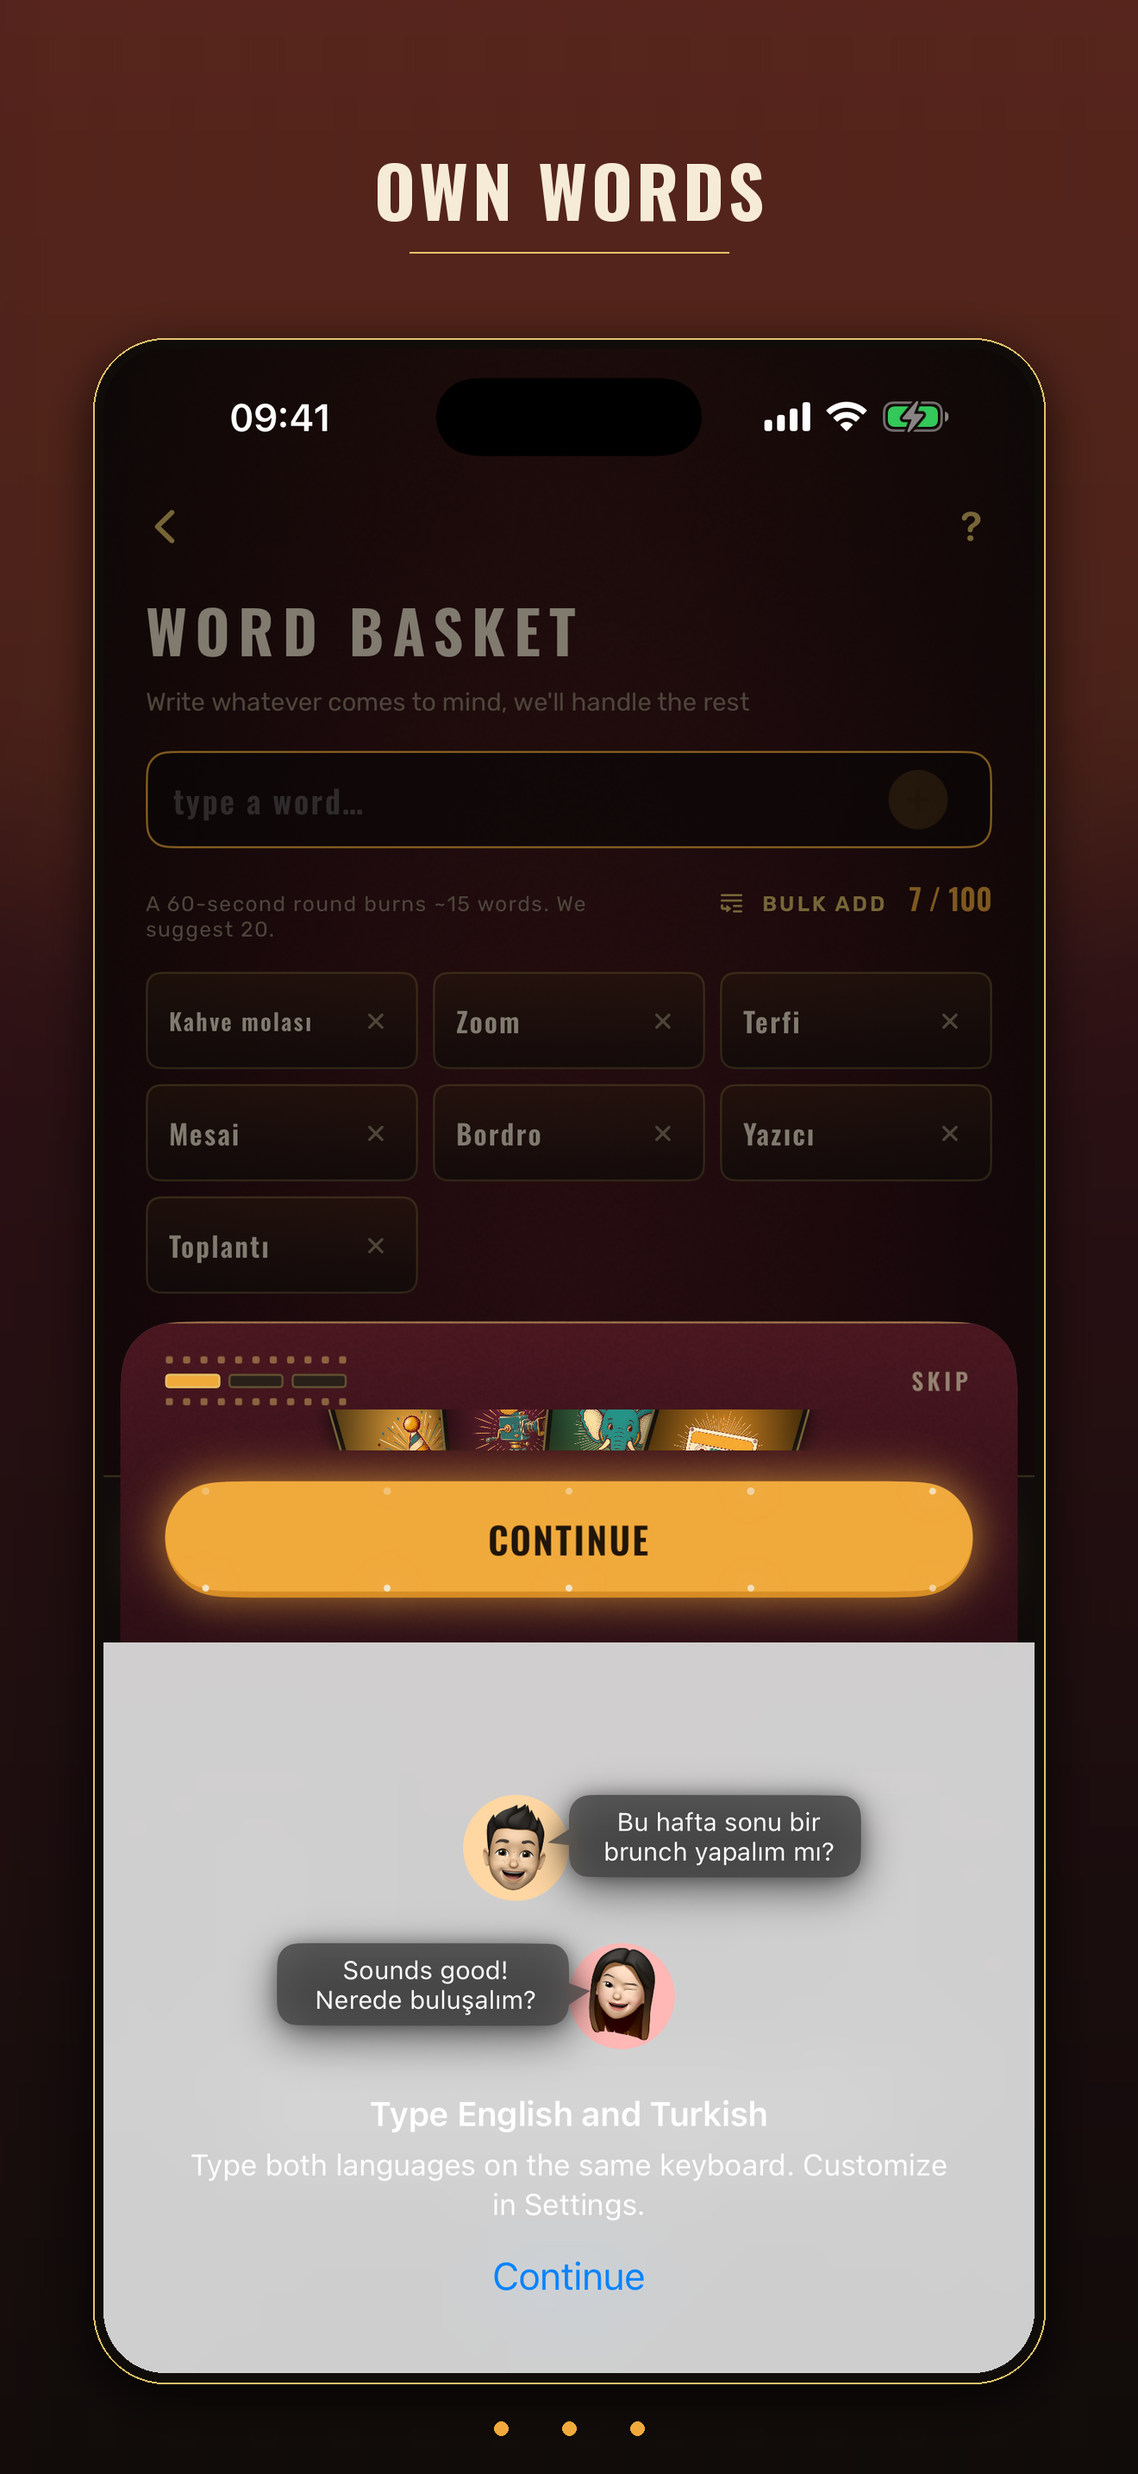
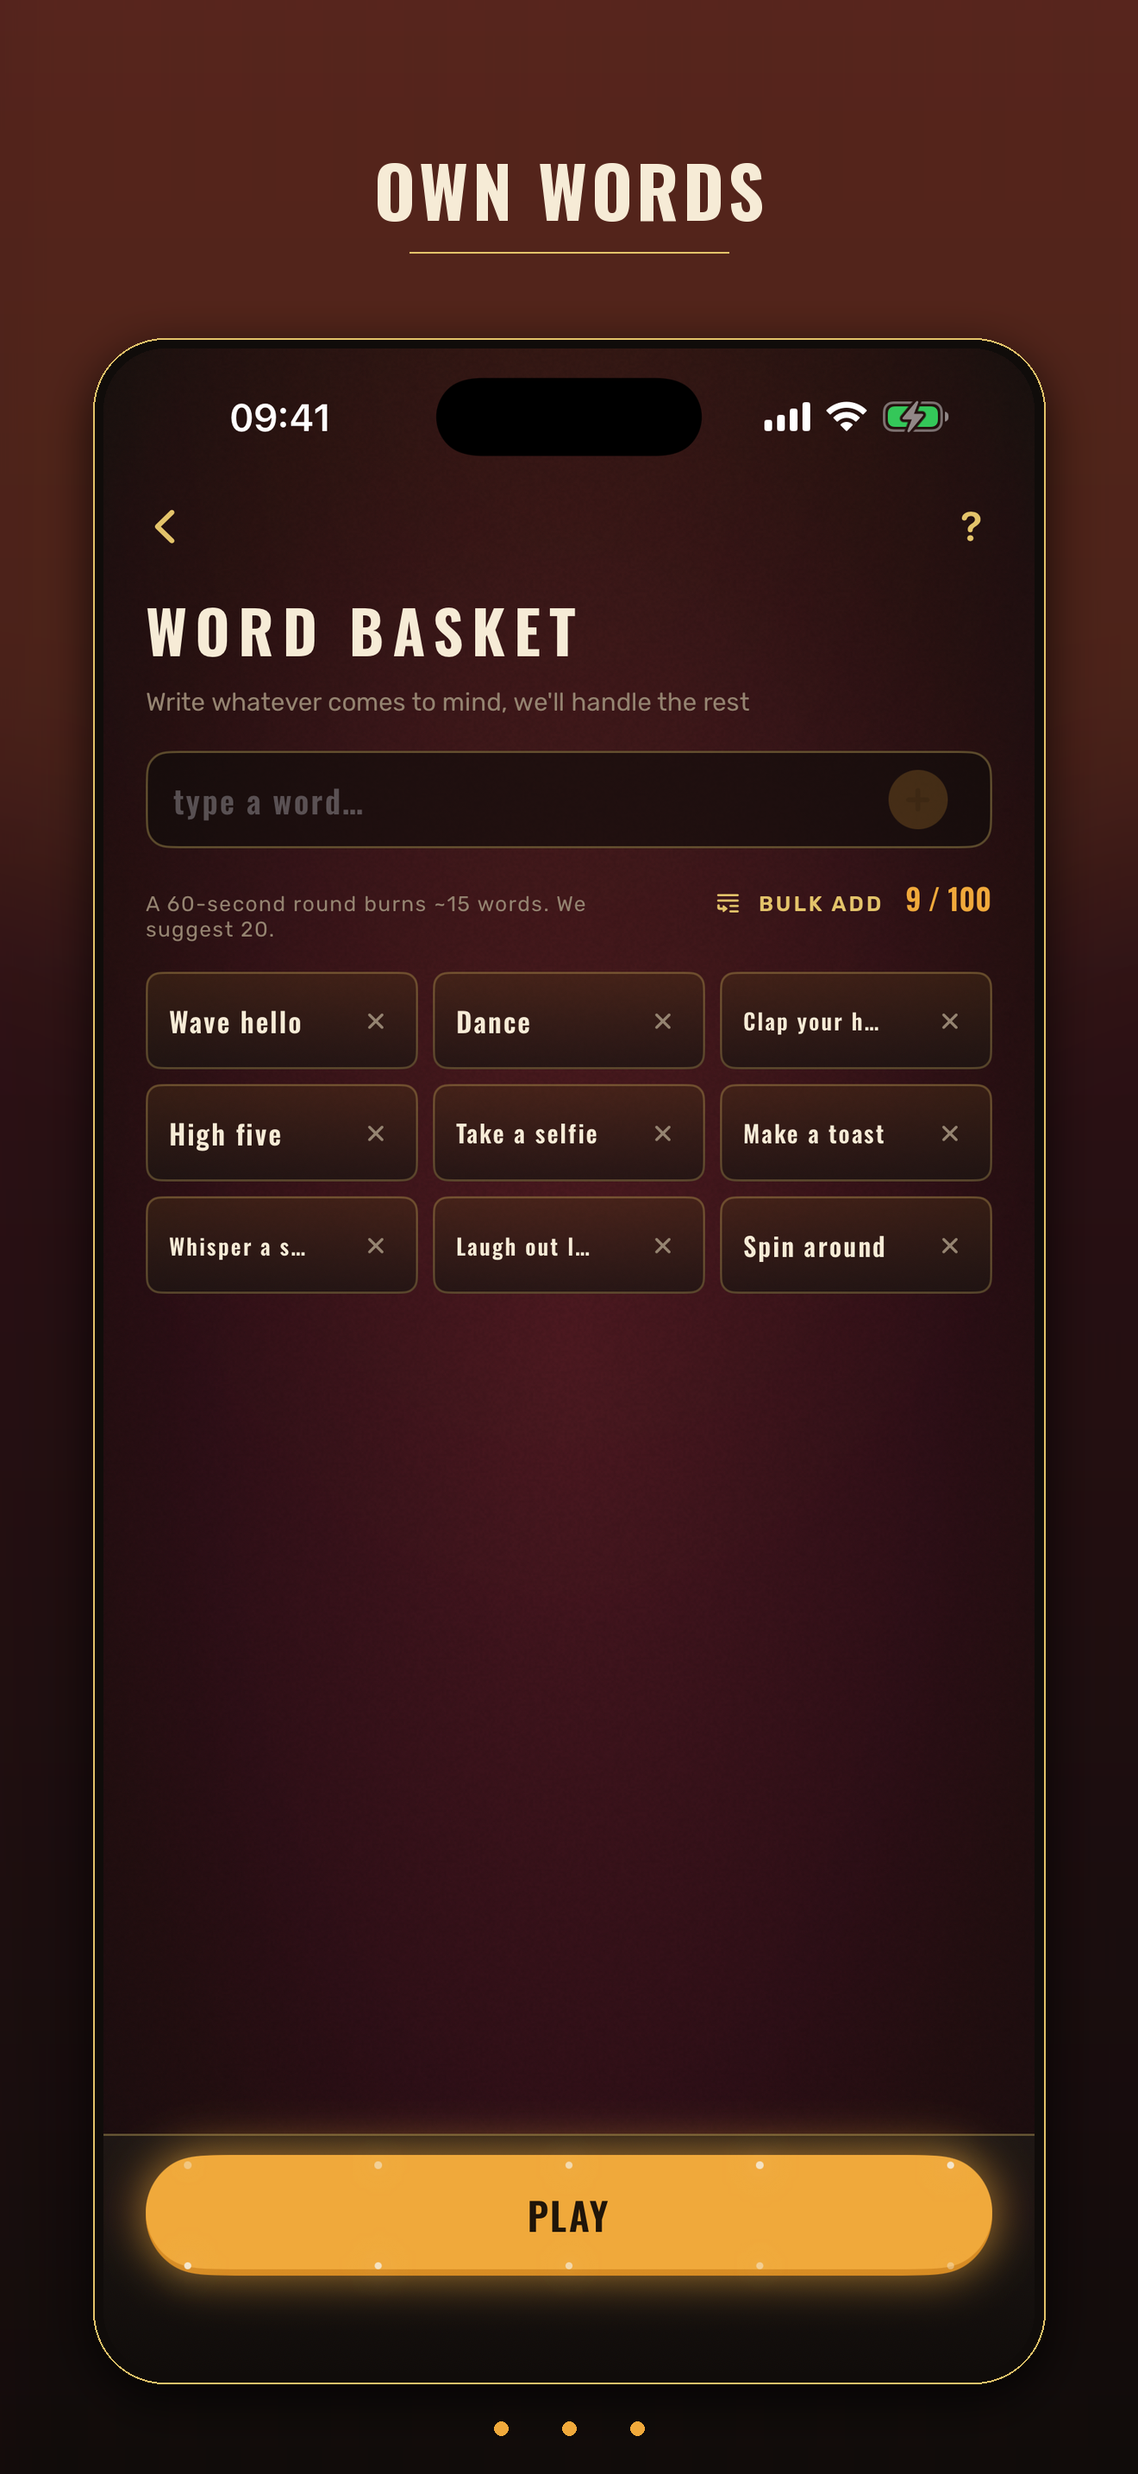
ddwd

diff --git a/charades/Charades/Features/Root/RootView.swift b/charades/Charades/Features/Root/RootView.swift
@@ -411,6 +411,18 @@ struct RootView: View {
         "Toplantı", "Ayşe'nin köpeği", "Müdürün arabası", "Mola",
     ]
 
+    /// Sepet ve custom deste tohumu: sabit Türkçe liste mağaza karesinde ve
+    /// yabancı dil denemelerinde yamalı duruyor. Ücretsiz destenin kendi
+    /// kartları o dilde hazır — tohum onları ödünç alıyor.
+    private static func debugSeedWords(_ count: Int) -> [String] {
+        let language = LocalizationManager.shared.localeCode
+        let words = CardBank.shared
+            .cards(in: DeckCatalog.freeDeckID)
+            .prefix(count)
+            .map { $0.text(for: language) }
+        return words.isEmpty ? Array(debugWords.prefix(count)) : Array(words)
+    }
+
     /// Simülatör doğrulaması. Tilt sensörü ve ekran döndürme simülatörde
     /// olmadığı için oyun fazlarına başka türlü girilemiyor.
     ///
@@ -442,6 +454,8 @@ struct RootView: View {
     ///   -SoftPaywall           tur sonu yumuşak önerisini yeniden tetikler
     ///   -Lapse                 abonelik düşmüş gibi davranır (bilgi kartı)
     ///   -FirstRun [adım]       onboarding'i baştan açar (1–3, varsayılan 1)
+    ///   -NoFirstRun            onboarding/paywall/istem zincirini kapalı açar
+    ///   -NoKeyboard            kelime girişini odaksız açar (klavye kapalı)
     ///   -TouchOnboarding       adım 3'ün dokunmatik hâli
     ///   -TiltOnboarding        adım 3'ün eğme hâli (simülatörde sensör yok)
     ///   -HomePrompts           ana ekrandaki 8 sn'lik istem zincirini tetikler
@@ -514,7 +528,7 @@ struct RootView: View {
         // makarayı çoğaltıyor (§ `04` §4.3 gruplama ve kota denetimi için).
         if arguments.contains("-SeedArchive") {
             let count = value(after: "-SeedArchive").flatMap(Int.init) ?? 5
-            ReplayStore.debugSeed(copies: count)
+            ReplayStore.debugSeed(copies: count, words: Self.debugSeedWords(3))
         }
         if arguments.contains("-NotificationsOff") {
             AppSettingsStore.shared.notificationsEnabled = false
@@ -524,6 +538,10 @@ struct RootView: View {
         if arguments.contains("-HomePrompts") {
             AppSettingsStore.shared.debugReplayHomePrompts()
             PromptCoordinator.shared.debugReset()
+        }
+        // Mağaza karelerinde ilk açılış sheet'i her ekranın üstünü kapatıyor.
+        if arguments.contains("-NoFirstRun") {
+            AppSettingsStore.shared.debugSkipFirstRun()
         }
         if arguments.contains("-FirstRun") {
             AppSettingsStore.shared.debugResetFirstRun()
@@ -553,9 +571,16 @@ struct RootView: View {
         if arguments.contains("-TeamRoster") {
             SubscriptionStore.shared.debugPremiumOverride = true
             setup.mode = .teams
+            let l10n = LocalizationManager.shared
             setup.teams = [
-                Team(name: "Perdeciler", players: ["Metehan", "Ayşe"]),
-                Team(name: "Makaracılar", players: ["Elif", "Burak"])
+                Team(
+                    name: l10n.t("teams.defaultName", ["index": "1"]),
+                    players: Array(ReplayStore.debugPlayerNames.prefix(2))
+                ),
+                Team(
+                    name: l10n.t("teams.defaultName", ["index": "2"]),
+                    players: Array(ReplayStore.debugPlayerNames.dropFirst(2).prefix(2))
+                )
             ]
             setup.roundsPerTeam = 1
         }
@@ -576,13 +601,13 @@ struct RootView: View {
                 CustomDeck(
                     name: "Ofis Muhabbeti",
                     languageCode: LocalizationManager.shared.localeCode,
-                    words: Array(Self.debugWords.prefix(count))
+                    words: Self.debugSeedWords(count)
                 )
             )
         }
         if arguments.contains("-Basket") {
             let count = value(after: "-Basket").flatMap(Int.init) ?? 7
-            setup.basketWords = Array(Self.debugWords.prefix(count))
+            setup.basketWords = Self.debugSeedWords(count)
         }
 
         if arguments.contains("-Settings") {

diff --git a/charades/Charades/Features/Replay/ReplayStore.swift b/charades/Charades/Features/Replay/ReplayStore.swift
@@ -215,22 +215,26 @@ enum ReplayStore {
     }
 
     #if DEBUG
+    /// Tohum oyuncu adları. Kısa ve çoğu dilde okunur; sabit Türkçe adlar
+    /// yabancı dil denemelerinde ve mağaza karesinde yamalı duruyordu.
+    static let debugPlayerNames = ["Alex", "Sam", "Mia", "Leo", "Ana", "Noah"]
+
     /// Simülatörde arşivi dolu görebilmek için. Kaynak makara yoksa sentetik
     /// bir video üretiliyor — aksi hâlde arşiv boşken tohumlama sessizce
     /// hiçbir şey yapmıyordu.
-    static func debugSeed(copies: Int) {
+    /// `words` oynatıcının altyazı şeridini besliyor; çağıran onları seçili
+    /// dilin destesinden veriyor ki tohum her dilde okunur olsun.
+    static func debugSeed(copies: Int, words: [String] = []) {
         prepareDirectory()
         let source = allReels().first
         let sourceURL = source?.videoURL ?? makeSeedVideo()
         guard let sourceURL, FileManager.default.fileExists(atPath: sourceURL.path) else { return }
 
-        let names = ["Ayşe", "Mehmet", "Zeynep", "Can", "Elif", "Deniz"]
+        let names = debugPlayerNames
         let decks = ["party", "movieClassics", "cities"]
-        let marks = source?.marks ?? [
-            .init(time: 3, isCorrect: true, word: "Zürafa", key: "giraffe"),
-            .init(time: 7, isCorrect: false, word: "Pangolin", key: "pangolin"),
-            .init(time: 11, isCorrect: true, word: "Timsah", key: "crocodile"),
-        ]
+        let marks = source?.marks ?? zip([3.0, 7.0, 11.0], words.prefix(3)).enumerated().map {
+            ReplayReel.Mark(time: $1.0, isCorrect: $0 != 1, word: $1.1, key: "seed-\($0)")
+        }
 
         for index in 0..<copies {
             let id = UUID().uuidString

diff --git a/charades/Charades/Features/Root/HeaderBar.swift b/charades/Charades/Features/Root/HeaderBar.swift
@@ -22,10 +22,16 @@ struct HeaderBar: View {
     private var logoSize: CGFloat { 44 - 20 * collapseProgress }
     private var taglineOpacity: Double { max(0, 1 - collapseProgress * 2.2) }
 
+    /// Logo ortada duruyor, butonlar onun üstünde: makara ikonu belirince sağ
+    /// küme genişliyor ve uzun dillerde plaka butonların altına giriyor. Geniş
+    /// tarafın payı iki yana birden veriliyor ki logo ortada kalsın.
+    private var sideInset: CGFloat { archiveCount > 0 ? 98 : 44 }
+
     var body: some View {
         VStack(spacing: 6) {
             ZStack {
                 logoPlaque
+                    .padding(.horizontal, sideInset)
 
                 HStack(spacing: 10) {
                     HeaderCircleIconButton(
@@ -73,6 +79,8 @@ struct HeaderBar: View {
             .appTracking(2 + 3 * (1 - collapseProgress))
             .textCase(.uppercase)
             .foregroundStyle(AppColors.textCream)
+            .lineLimit(1)
+            .minimumScaleFactor(0.6)
             .padding(.horizontal, 22)
             .padding(.vertical, 5)
             .overlay {

diff --git a/charades/Charades/Services/AppSettingsStore.swift b/charades/Charades/Services/AppSettingsStore.swift
@@ -333,6 +333,20 @@ final class AppSettingsStore {
         debugResetOneTimePrompts()
     }
 
+    /// Mağaza karesi ilk açılış akışını göstermemeli: onboarding, paywall ve
+    /// istem zinciri kapalı başlasın.
+    func debugSkipFirstRun() {
+        onboardingDone = true
+        onboardingStep = 0
+        paywallSeen = true
+        notificationPrompted = true
+        rateUsPrompted = true
+        replayPrivacyShown = true
+        archiveNoticeDismissed = true
+        softPaywallSeen = true
+        lapseNoticeShown = true
+    }
+
     /// İlk açılış deneyimini yeniden oynatmak için: onboarding + onun ardından
     /// gelen paywall + bildirim istemi.
     func debugResetFirstRun() {

diff --git a/charades/Charades/Features/CustomDeck/WordEntryField.swift b/charades/Charades/Features/CustomDeck/WordEntryField.swift
@@ -40,6 +40,10 @@ struct WordListSection: View {
             .environment(l10n)
         }
         .onAppear {
+            #if DEBUG
+            // Mağaza karesinde klavye ekranın yarısını yiyor.
+            if ProcessInfo.processInfo.arguments.contains("-NoKeyboard") { return }
+            #endif
             if autoFocusesEntry { isEntryFocused = true }
         }
     }

diff --git a/charades/Scripts/build_store_screenshots.py b/charades/Scripts/build_store_screenshots.py
@@ -16,6 +16,10 @@ Kullanım:
   python3 Scripts/build_store_screenshots.py --size 6.9 --scene home
   python3 Scripts/build_store_screenshots.py --compose-only  # yeniden çekmeden diz
 
+Bağımlılık: Pillow. Arapça başlık için `arabic-reshaper` + `python-bidi`
+(sistem SF Arabic ile sunum biçimleri çiziliyor; Rubik OpenType birleştirmesi
+PIL'de yok).
+
 Çıktı: `Store/screenshots/<dil>/<boyut>/NN-<sahne>.png`
 """
 
@@ -30,6 +34,13 @@ import sys
 import time
 
 from PIL import Image, ImageDraw, ImageFilter, ImageFont
+
+try:
+    import arabic_reshaper
+    from bidi.algorithm import get_display
+except ImportError:  # pragma: no cover
+    arabic_reshaper = None
+    get_display = None
 
 ROOT = pathlib.Path(__file__).resolve().parent.parent
 FONTS = ROOT / "Charades" / "Resources" / "Fonts"
@@ -76,10 +87,15 @@ SCENES = [
     {
         "id": "game",
         "headline": ["onboarding.forehead.title"],
-        "arguments": [
-            "-Premium", "-ShortRound", "-StartGame", "filmClassics", "-SkipRotate",
-        ],
-        "settle": 9.0,
+        "arguments": ["-Premium", "-StartGame", "movieClassics", "-SkipRotate"],
+        # Klaket + geri sayım 5 sn sürüyor; kare ilk kelimede alınmalı.
+        "settle": 8.0,
+        # Simülatör cihazı portre kalıyor, uygulama içeriği kendi çeviriyor:
+        # ham kare yan yatmış geliyor, afişte doğrultuluyor.
+        "rotate": 90,
+        # Yatay kare afişin yarısını boş bırakıyor; kuralın kendi cümlesi
+        # (onboarding adım 2) o boşluğu dolduruyor.
+        "sub": "onboarding.forehead.body",
     },
     {
         "id": "modes",
@@ -102,7 +118,7 @@ SCENES = [
     {
         "id": "words",
         "headline": ["mode.ownWords.title"],
-        "arguments": ["-Premium", "-Basket", "7", "-WordBasket"],
+        "arguments": ["-Premium", "-NoKeyboard", "-Basket", "9", "-WordBasket"],
         "settle": 4.0,
     },
 ]
@@ -178,7 +194,8 @@ def boot(udid: str) -> None:
 
 
 def capture(udid: str, scene: dict, language: str, target: pathlib.Path) -> None:
-    arguments = ["-SkipSplash", "-Lang", language, *scene["arguments"]]
+    # `-NoFirstRun` olmadan onboarding sheet'i her karenin üstünü kapatıyor.
+    arguments = ["-SkipSplash", "-NoFirstRun", "-Lang", language, *scene["arguments"]]
     run("xcrun", "simctl", "launch", "--terminate-running-process", udid, BUNDLE_ID, *arguments)
     time.sleep(scene["settle"])
     target.parent.mkdir(parents=True, exist_ok=True)
@@ -233,6 +250,10 @@ def tracked_text(
     tracking: float,
 ) -> None:
     """PIL'de harf aralığı yok; §2'nin geniş aralığı harf harf çiziliyor."""
+    if tracking == 0:
+        # Arapça bitişik; harf harf çizmek bağlantıyı bozar.
+        draw.text(position, text, font=font, fill=fill)
+        return
     x, y = position
     for character in text:
         draw.text((x, y), character, font=font, fill=fill)
@@ -272,17 +293,47 @@ def rounded_mask(size: tuple[int, int], radius: int) -> Image.Image:
     return mask
 
 
-def compose(shot: Image.Image, text: str, canvas: tuple[int, int], rtl: bool) -> Image.Image:
+def title_font(size: int, rtl: bool) -> ImageFont.FreeTypeFont:
+    # § `01` §2: Oswald'da Arap glifi yok. Rubik'te Arap var ama OpenType
+    # birleştirmesiyle; PIL raqm olmadan FE70 sunum biçimlerini çizemiyor.
+    # Mağaza başlığı için sistemin sunum biçimli SF Arabic'i kullanılıyor.
+    if rtl:
+        return ImageFont.truetype("/System/Library/Fonts/SFArabic.ttf", size)
+    return ImageFont.truetype(str(FONTS / "Oswald-Bold.ttf"), size)
+
+
+def body_font(size: int, rtl: bool) -> ImageFont.FreeTypeFont:
+    if rtl:
+        return ImageFont.truetype("/System/Library/Fonts/SFArabic.ttf", size)
+    return ImageFont.truetype(str(FONTS / "FiraSans-Regular.ttf"), size)
+
+
+def shape(text: str, rtl: bool) -> str:
+    if not rtl:
+        # Türkçe `i` → `İ`; Python'un `upper()`ı onu `I` yapıyor.
+        return text.replace("i", "İ").replace("ı", "I").upper()
+    if arabic_reshaper is None or get_display is None:
+        return text
+    return get_display(arabic_reshaper.reshape(text))
+
+
+def compose(
+    shot: Image.Image,
+    text: str,
+    canvas: tuple[int, int],
+    rtl: bool,
+    subtitle: str | None = None,
+) -> Image.Image:
     width, height = canvas
     image = background(canvas)
     draw = ImageDraw.Draw(image)
 
     title_size = round(width * 0.062)
-    font = ImageFont.truetype(str(FONTS / "Oswald-Bold.ttf"), title_size)
+    font = title_font(title_size, rtl)
     # § `01` §2: ALL CAPS + geniş aralık. Arapça bitişik yazıldığı için aralık
     # yalnızca ayrık alfabelerde (uygulamadaki `appTracking` kuralının aynısı).
     tracking = 0 if rtl else title_size * 0.055
-    caption = text if rtl else text.upper()
+    caption = shape(text, rtl)
 
     top = round(height * 0.055)
     lines = wrap(draw, caption, font, tracking, width * 0.84)
@@ -299,15 +350,25 @@ def compose(shot: Image.Image, text: str, canvas: tuple[int, int], rtl: bool) ->
         fill=ACCENT_GOLD, width=max(2, width // 620),
     )
 
-    # Cihaz çerçevesi: kalan alana sığan en büyük ölçek.
-    frame_top = rule_y + round(height * 0.035)
+    # Cihaz çerçevesi: kalan alana sığan en büyük ölçek. Yatay kare dar kalıyor,
+    # onu biraz daha genişletip boşluğun ortasına oturtuyoruz.
+    landscape = shot.width > shot.height
+    top_limit = rule_y + round(height * 0.035)
     bottom_margin = round(height * 0.045)
-    available = (round(width * 0.84), height - frame_top - bottom_margin)
+    available = (
+        round(width * (0.94 if landscape else 0.84)),
+        height - top_limit - bottom_margin,
+    )
     scale = min(available[0] / shot.width, available[1] / shot.height)
     inner = (round(shot.width * scale), round(shot.height * scale))
     bezel = max(6, round(width * 0.009))
     frame = (inner[0] + bezel * 2, inner[1] + bezel * 2)
     frame_x = (width - frame[0]) // 2
+    # Yatayda ortalanan şey yalnız cihaz değil, altındaki alt metinle birlikte
+    # oluşan blok; o yüzden merkez bir tık yukarı çekiliyor.
+    frame_top = top_limit
+    if landscape:
+        frame_top += max((available[1] - frame[1]) // 2 - round(height * 0.075), 0)
     frame_radius = round(min(frame) * 0.075)
 
     shadow = Image.new("RGBA", canvas, (0, 0, 0, 0))
@@ -341,6 +402,16 @@ def compose(shot: Image.Image, text: str, canvas: tuple[int, int], rtl: bool) ->
             [cx - bulb_r, bulb_y - bulb_r, cx + bulb_r, bulb_y + bulb_r], fill=ACCENT_AMBER
         )
 
+    if subtitle:
+        sub_size = round(width * 0.032)
+        sub_font = body_font(sub_size, rtl)
+        caption = shape(subtitle, rtl) if rtl else subtitle
+        sub_y = bulb_y + round(height * 0.028)
+        for line in wrap(draw, caption, sub_font, 0, width * 0.74):
+            line_width = draw.textlength(line, font=sub_font)
+            draw.text(((width - line_width) / 2, sub_y), line, font=sub_font, fill=TEXT_CREAM)
+            sub_y += round(sub_size * 1.42)
+
     return image
 
 
@@ -371,6 +442,9 @@ def main() -> int:
         if not arguments.compose_only:
             udid = device_udid(size)
             boot(udid)
+            # Temiz kurulum: önceki setin tohumladığı arşiv/sepet bir sonraki
+            # setin ana ekran karesine rozet olarak sızıyor.
+            run("xcrun", "simctl", "uninstall", udid, BUNDLE_ID, check=False)
             run("xcrun", "simctl", "install", udid, str(app))
 
         for index, scene in enumerate(scenes, start=1):
@@ -381,7 +455,11 @@ def main() -> int:
                 print(f"  ✗ {scene['id']}: ham kare yok ({raw})")
                 return 1
 
-            image = compose(Image.open(raw), headline(scene, table), size["canvas"], rtl)
+            shot = Image.open(raw)
+            if scene.get("rotate"):
+                shot = shot.rotate(scene["rotate"], expand=True)
+            subtitle = table.get(scene["sub"]) if scene.get("sub") else None
+            image = compose(shot, headline(scene, table), size["canvas"], rtl, subtitle)
             target = OUT / arguments.lang / key / f"{index:02d}-{scene['id']}.png"
             target.parent.mkdir(parents=True, exist_ok=True)
             image.save(target)
